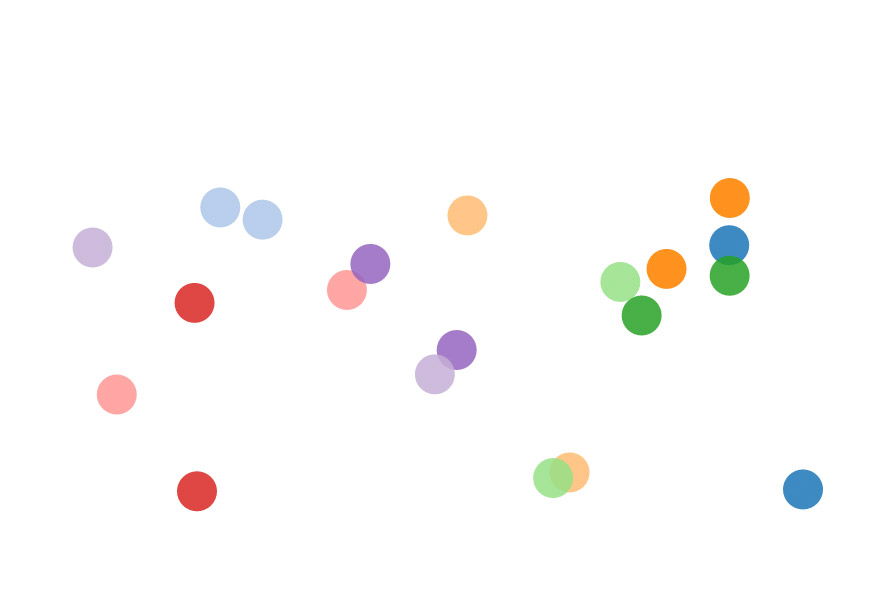
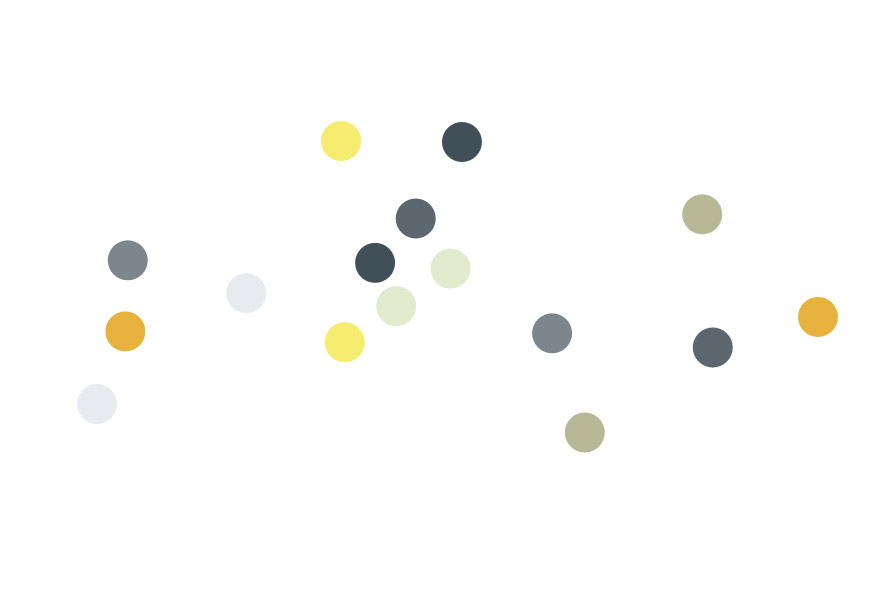
Add new image for scatterplot on doc homepage

diff --git a/examples/scatterplot-chart/App.js b/examples/scatterplot-chart/App.js
@@ -216,6 +216,41 @@ const config = [
   }
 ];
 
+const configGen = [
+  {
+    type: 'A',
+    color: '#1e313c'
+  },
+  {
+    type: 'B',
+    color: '#3f4c55'
+  },
+  {
+    type: 'C',
+    color: '#667178'
+  },
+  {
+    type: 'D',
+    color: '#f4e956'
+  },
+  {
+    type: 'E',
+    color: '#e3a51a'
+  },
+  {
+    type: 'F',
+    color: '#aaac84'
+  },
+  {
+    type: 'G',
+    color: '#dce7c5'
+  },
+  {
+    type: 'H',
+    color: '#e4e8ec'
+  }
+];
+
 export default class ScatterplotContainer extends React.Component {
   constructor(props) {
     super(props);
@@ -244,7 +279,7 @@ export default class ScatterplotContainer extends React.Component {
 
   generateData() {
     const data = [];
-    const keys = ['A', 'B', 'C', 'D', 'E', 'F', 'G', 'H', 'I', 'J', 'A', 'B', 'C', 'D', 'E', 'F', 'G', 'H', 'I', 'J'];
+    const keys = ['A', 'B', 'C', 'D', 'E', 'F', 'G', 'H', 'A', 'B', 'C', 'D', 'E', 'F', 'G', 'H'];
 
     keys.map((key) => {
       data.push({type: key, x: this.getRandomArbitrary(1, 1000), y: this.getRandomArbitrary(1, 1000)});
@@ -364,6 +399,7 @@ export default class ScatterplotContainer extends React.Component {
           <div ref="component">
             <ScatterplotChart
               data={this.data}
+              config={configGen}
               dotRadius={20}
               width={this.state.componentWidth}
               height={this.state.componentWidth / 2}
